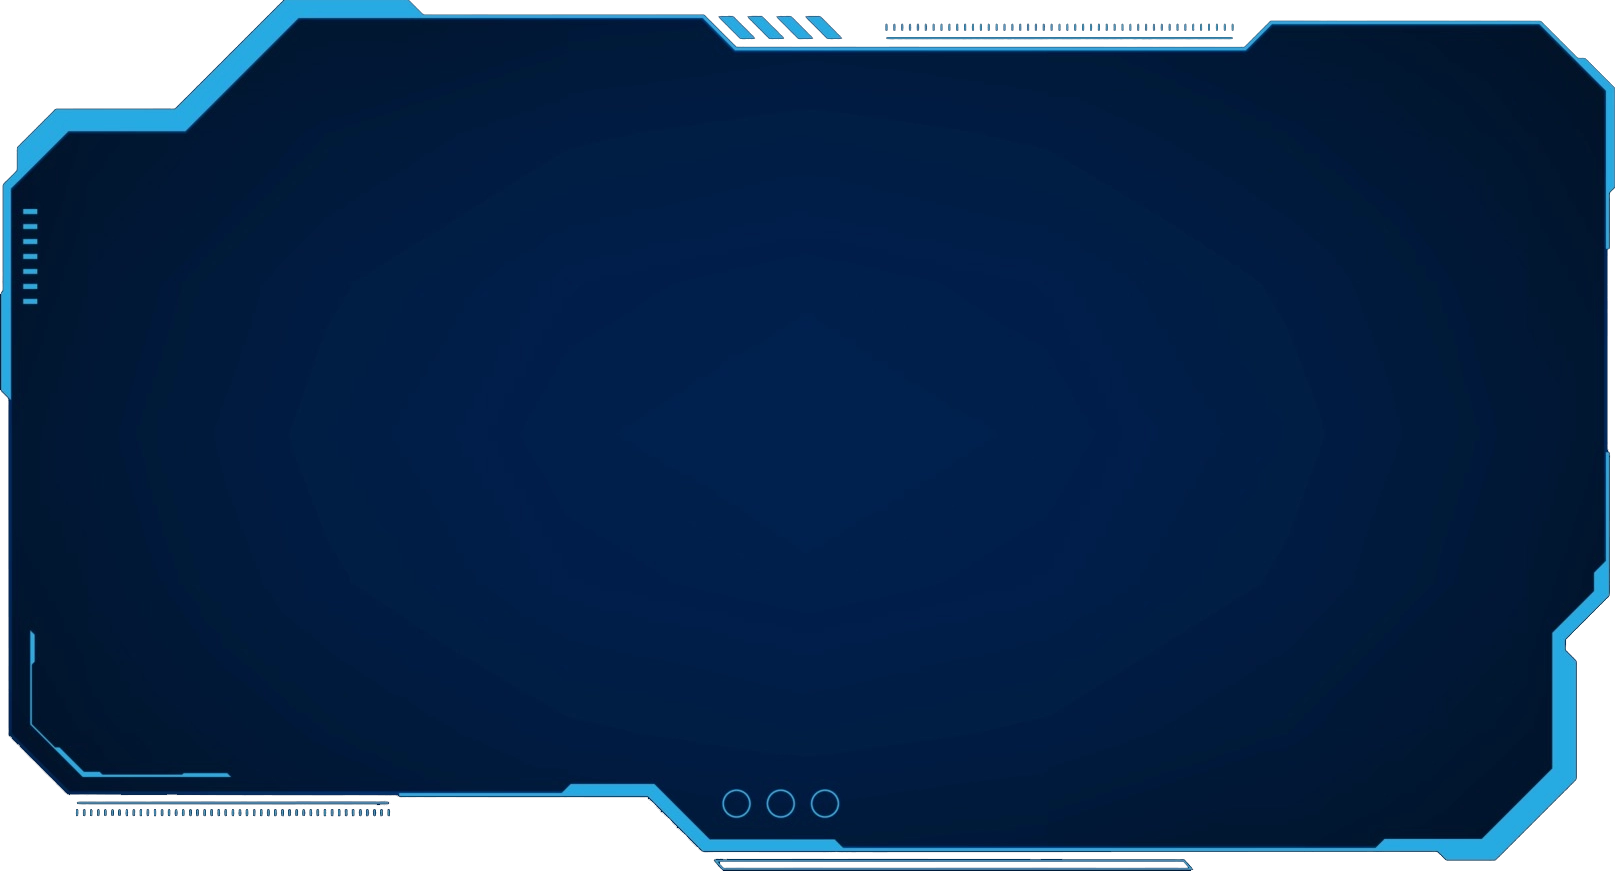
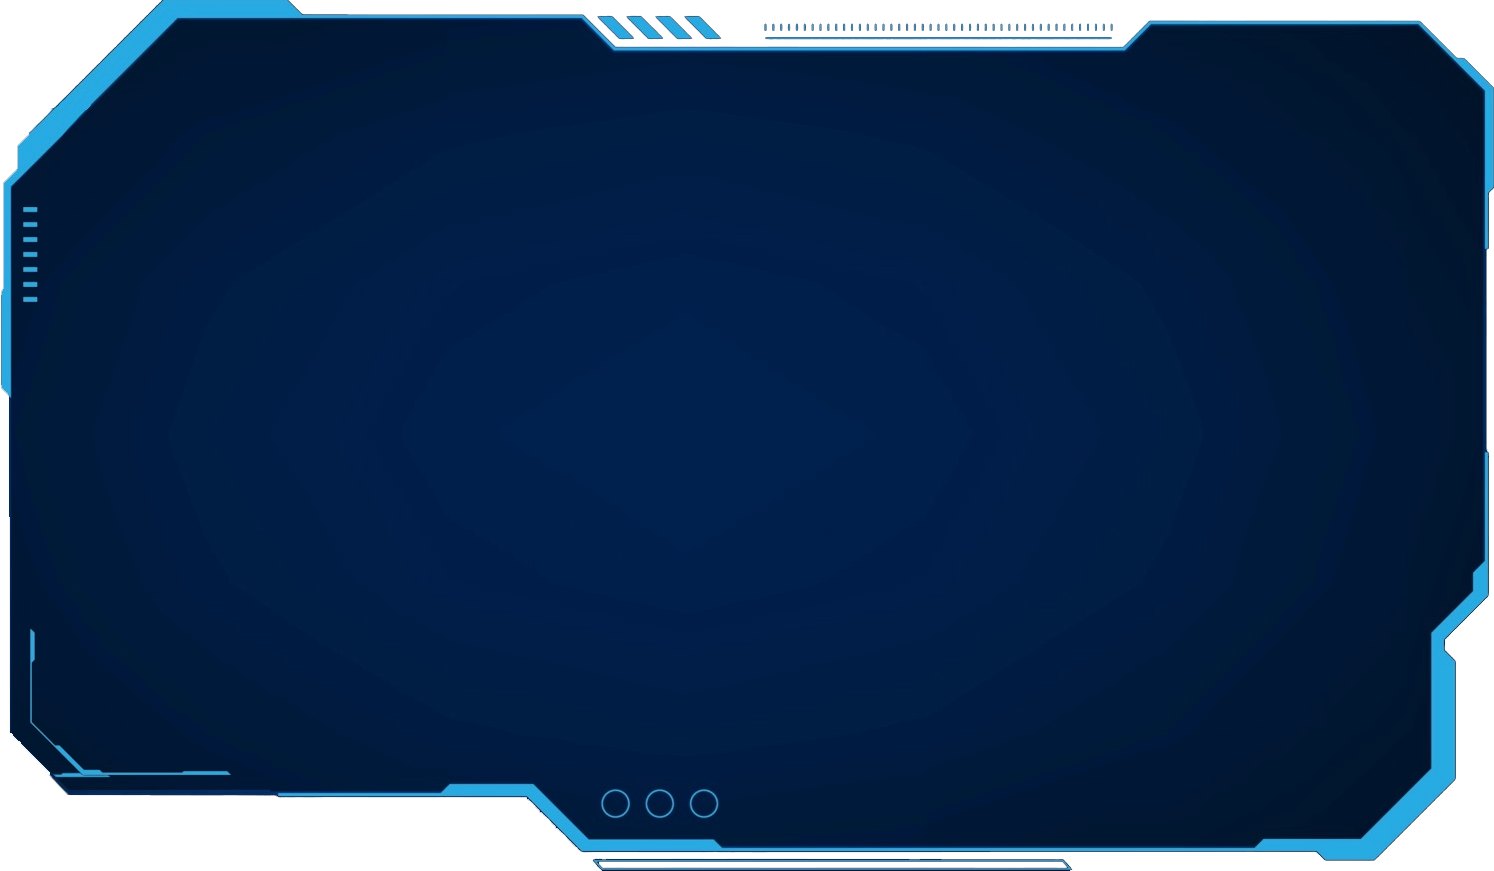
Minimap and data improvements

diff --git a/program.js b/program.js
@@ -34,13 +34,15 @@ const estimators = {
     dis: costestimator,
     hil: heightestimator,
     // ear: visibilityestimator,
-}
-const compOffset = toRad(26);
+}   
+const compOffset = 0.5346887200211221;
+const directions = ["N","NW","W","SW","S","SE","E","NE"];
 
 function update_data() {
+    let di;
     const camera = $("#camera")[0];
     const cameraPos = camera.object3D.position;
-    const rot = camera.object3D.rotation.y;
+    let rot = camera.object3D.rotation.y;
     const c = dataIndexOf(cameraPos.x, cameraPos.z);
     const la = toRad(lat(c[0], c[1]));
     const lo = toRad(long(c[0], c[1]));
@@ -63,6 +65,12 @@ function update_data() {
     const arr = $("#arrow")[0];
     ctx.drawImage(arr,-100,-163);
     ctx.restore();
+    rot = Math.floor(((rot+3*Math.PI)%(2*Math.PI))/(Math.PI/4));
+    if(directions[rot]){
+        di = directions[rot];
+    }else{
+        di = rot;
+    }
     $("#data").html(
         `Press H for help.<br>Position: ${-1 * lat(c[0], c[1])}&deg; S, ${long(
             c[0],
@@ -71,7 +79,7 @@ function update_data() {
             2,
         )}&deg;<br>Elevation to Earth: ${ele.toFixed(2)}&deg;<br>Data indices: row ${
             c[0]
-        }, column ${c[1]}.`,
+        }, column ${c[1]}.<br>Heading: ${di}`,
     );
 }
 $(document).keydown(() => {

diff --git a/info-style.css b/info-style.css
@@ -4,11 +4,15 @@
     position: absolute;
     font-family: 'Agency FB', sans-serif;
     color: white;
-    font-size: 1.05em;
+    font-size: 1.07em;
     top: 10px;
     left: 10px;
     height: 190px;
-    width: 352px;
+    width: 326px;
+}
+#data {
+    padding-left: 40px;
+    padding-top: 0px;
 }
 p {
     padding: 20px 25px;
@@ -19,7 +23,7 @@ button {
     color: white;
 }
 #prompt {
-    background-image: url("gui.png");
+    background-image: url("gui-uncut.png");
     background-size: contain;
     position: absolute;
     font-family: 'Agency FB', sans-serif;
@@ -228,6 +232,6 @@ td {
     height: 20vw;
     left: 79%;
     top: 1%;
-    background-image: url("slopemap.png");
+    background-image: url("nocardinal.png");
     background-size: contain;
 }
